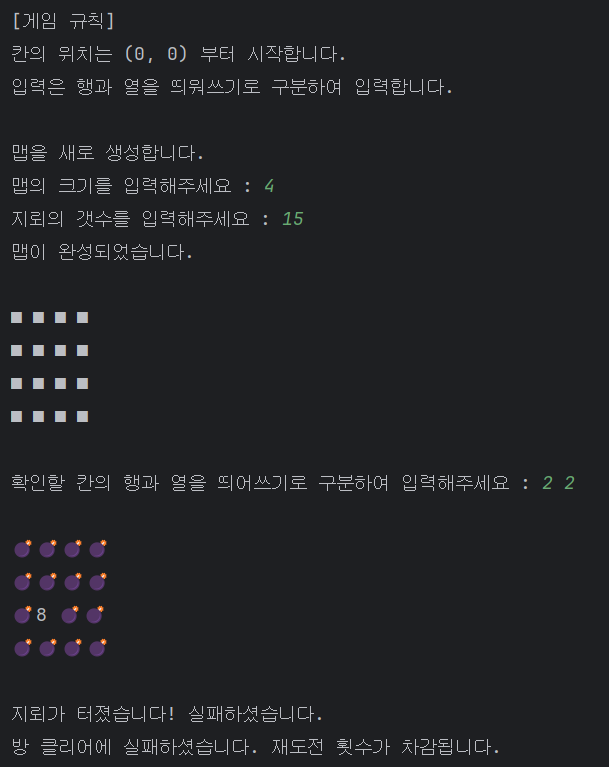
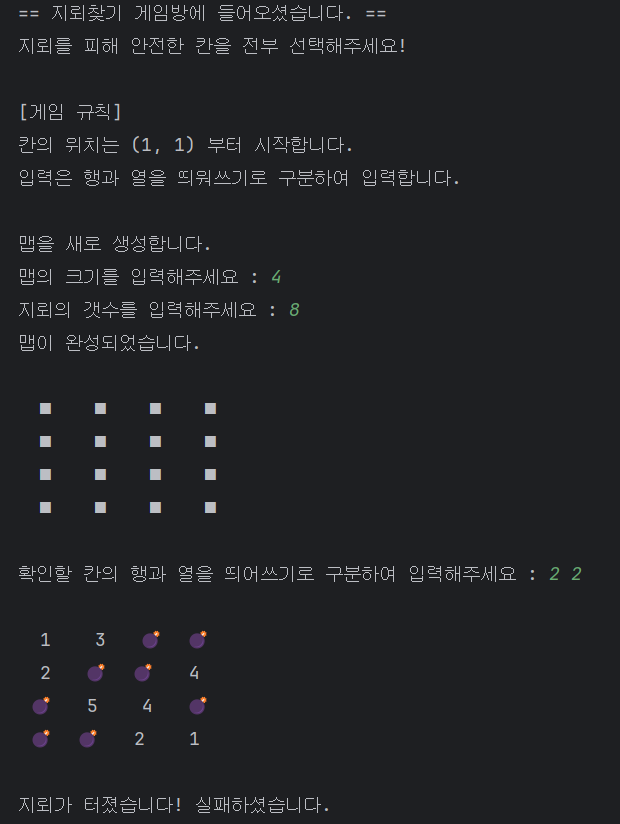
입력 값을 1, 1 부터 받도록 사용자 친화적으로 수정 및 맵 간격 늘림

diff --git a/src/com/escape/room/Minesweeper.java b/src/com/escape/room/Minesweeper.java
@@ -39,8 +39,8 @@ public class Minesweeper extends Room{
             // 플레이어가 판을 연다.
             System.out.print("확인할 칸의 행과 열을 띄어쓰기로 구분하여 입력해주세요 : ");
             String inputStr = sc.nextLine();
-            int openX = Integer.valueOf(inputStr.split(" ")[0]);
-            int openY = Integer.valueOf(inputStr.split(" ")[1]);
+            int openX = Integer.valueOf(inputStr.split(" ")[0]) - 1;
+            int openY = Integer.valueOf(inputStr.split(" ")[1]) - 1;
 
             if(openX < 0 || openX >= mapSize || openY < 0 || openY >= mapSize) {
                 System.out.println("맵 밖 위치를 지정할 수 없습니다!");
@@ -133,12 +133,12 @@ public class Minesweeper extends Room{
             for(int j = 0; j < mapSize; j++) {
                 if(isEnd || openMap[i][j]) { // 열린 칸
                     if(map[i][j] == -1) {
-                        sb.append("💣");
+                        sb.append(" 💣 ");
                     } else {
-                        sb.append(map[i][j] + " ");
+                        sb.append("  " + map[i][j] + "  ");
                     }
                 } else { // 닫힌 칸
-                    sb.append("■ ");
+                    sb.append("  ■  ");
                 }
             }
             System.out.println(sb.toString());
@@ -152,7 +152,7 @@ public class Minesweeper extends Room{
         System.out.println();
 
         System.out.println("[게임 규칙]");
-        System.out.println("칸의 위치는 (0, 0) 부터 시작합니다.");
+        System.out.println("칸의 위치는 (1, 1) 부터 시작합니다.");
         System.out.println("입력은 행과 열을 띄워쓰기로 구분하여 입력합니다.");
         System.out.println();
     }
